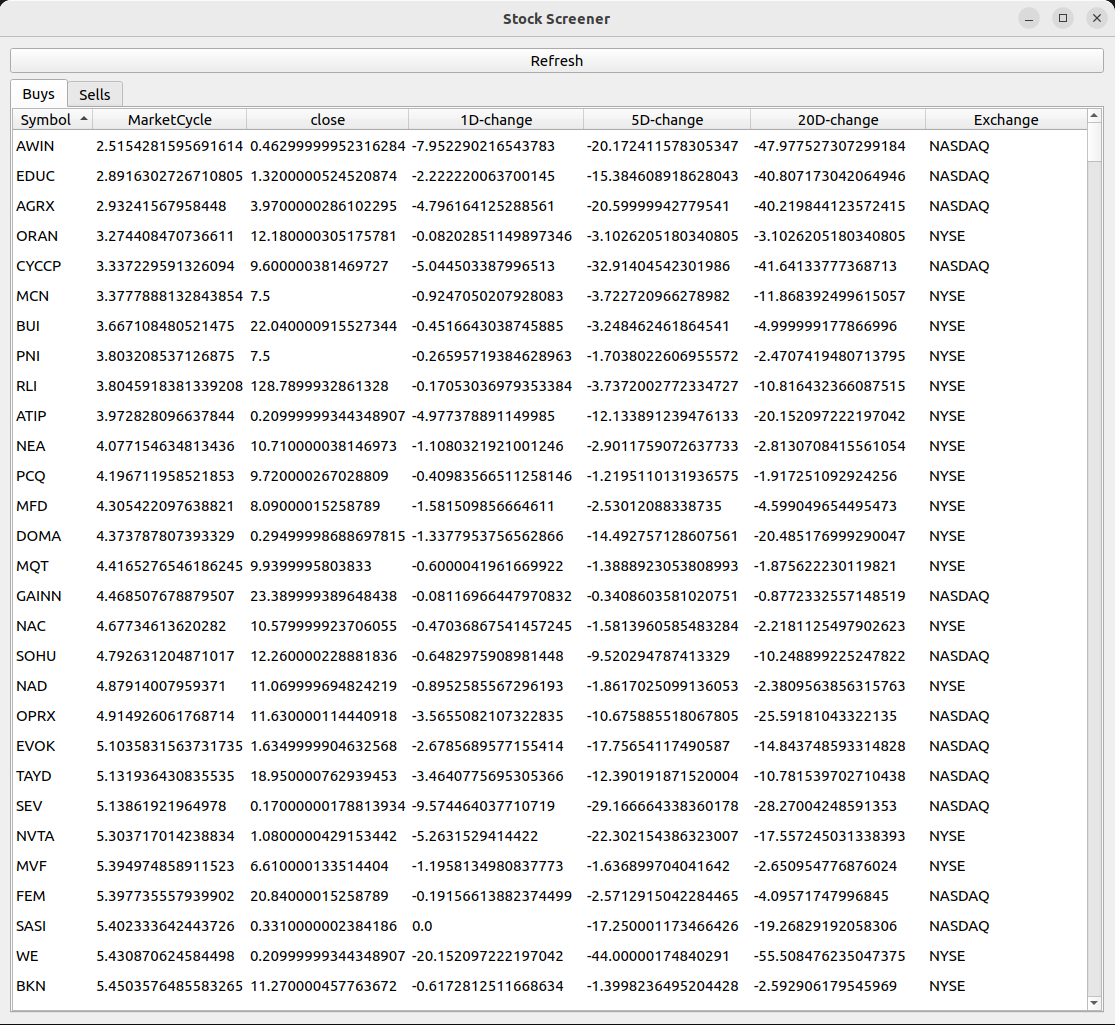
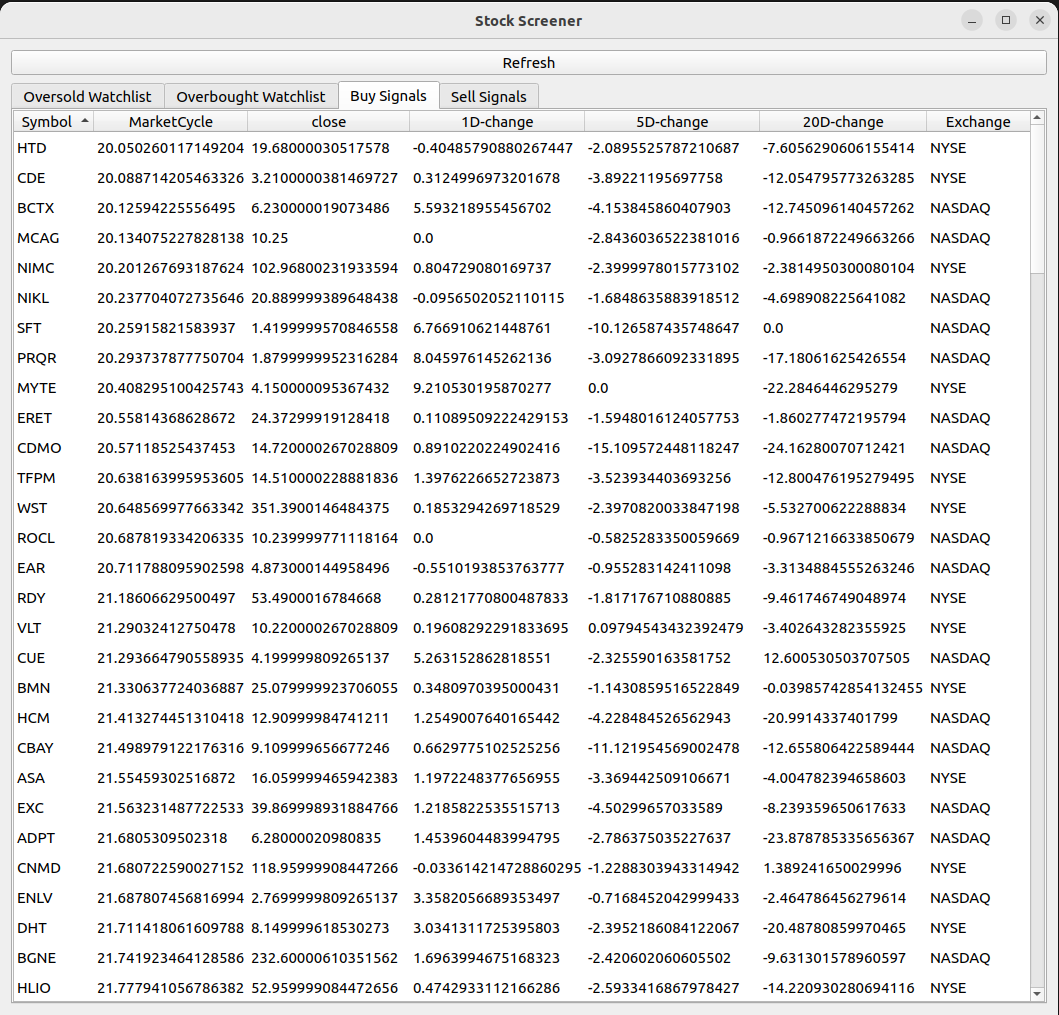
Buy & Sell signals

Changed region(s): [[0.0, 0.0, 1.0, 1.0]]

diff --git a/Screener.py b/Screener.py
@@ -14,7 +14,7 @@ class Screener:
         self.hta = HelperTA()
     
     def screen(self):
-        self.downloader.download(period='1y')
+        self.downloader.download(period='30d')
         data = self.downloader.data['Close']
 
         self.marketCycles = self.hta.MarketCycle(data, data, data, 
@@ -25,6 +25,8 @@ class Screener:
                                             )
         self.sellList = self.marketCycles.loc[:, self.marketCycles.iloc[-1] >= 80].iloc[-1].sort_values(ascending=False)
         self.buyList = self.marketCycles.loc[:, self.marketCycles.iloc[-1] <= 20].iloc[-1].sort_values(ascending=True)
+        self.sellSignals = self.marketCycles.loc[:, (self.marketCycles.iloc[-1] < 80) & (self.marketCycles.iloc[-2] >= 80)].iloc[-1].sort_values(ascending=False)
+        self.buySignals = self.marketCycles.loc[:, (self.marketCycles.iloc[-1] > 20) & (self.marketCycles.iloc[-2] <= 20)].iloc[-1].sort_values(ascending=True)
 
     
     def summary(self, watchlist):

diff --git a/main.py b/main.py
@@ -29,14 +29,20 @@ class StockScreenerUI(QWidget):
         screener.screen()
         sells = screener.summary(screener.sellList)
         buys = screener.summary(screener.buyList)
+        sellSignals = screener.summary(screener.sellSignals)
+        buySignals = screener.summary(screener.buySignals)
 
         self.tab_widget.clear()
 
         buys_table = self.create_table(buys)
         sells_table = self.create_table(sells)
+        buySignals_table = self.create_table(buySignals)
+        sellSignals_table = self.create_table(sellSignals)
 
-        self.tab_widget.addTab(buys_table, "Buys")
-        self.tab_widget.addTab(sells_table, "Sells")
+        self.tab_widget.addTab(buys_table, "Oversold Watchlist")
+        self.tab_widget.addTab(sells_table, "Overbought Watchlist")
+        self.tab_widget.addTab(buySignals_table, "Buy Signals")
+        self.tab_widget.addTab(sellSignals_table, "Sell Signals")
 
     def create_table(self, df):
         table = QTableView()

diff --git a/Downloader.py b/Downloader.py
@@ -44,7 +44,7 @@ class Downloader:
         #filename  = 'temp.pkl'#'data_'+period+'_'+(hashlib.sha224((''.join(self.symbols)).encode('utf-8')).hexdigest())+".pkl"
         filename  = 'data_'+now_str+'_'+(hashlib.sha224((''.join(self.symbols)).encode('utf-8')).hexdigest())+".pkl"
       else:
-        filename  = 'data_'+period+'_'+(hashlib.sha224(('all').encode('utf-8')).hexdigest())+".pkl"
+        filename  = 'data_'+now_str+'_'+(hashlib.sha224(('all').encode('utf-8')).hexdigest())+".pkl"
     
     if path.exists(filename):
       print("Using cached data")

diff --git a/README.md b/README.md
@@ -1,6 +1,6 @@
 # Market Cycles Stock Screener
 
-Stock Screener, scans the NYSE & NASDAQ and displays a QT5 UI with Buys & Sells watchlists
+Stock Screener, scans the NYSE & NASDAQ and displays a QT5 UI with Buys & Sells watchlists, as well as daily buy & sell signals.
 
 The Market Cycle indicator is a weighted average of the RSI, Stochastic RSI & Stochastic Oscillator.
 
@@ -9,6 +9,9 @@ I found it to be useful in finding the peaks and bottoms without much lag.
 It returns a value in the range [0; 100]. Read it like the RSI indicator: < 20 is oversold, > 80 is overbought.
 
 Tradingview indicator: https://www.tradingview.com/script/KutjMaH0-Market-Cycle-Indicator/
+
+
+*Not an investment advice. Always do your own research, do not trade blindly off signals.*
 
 ## Install
 
@@ -30,4 +33,5 @@ Tradingview indicator: https://www.tradingview.com/script/KutjMaH0-Market-Cycle-
 ### Market Cycle Indicator
 
 ![Screenshot](screenshot-tradingview.png)
+
 
